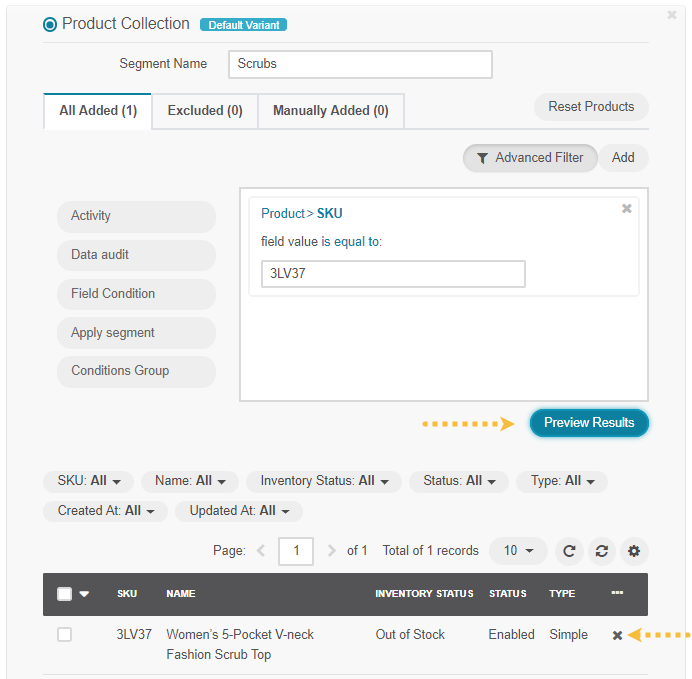
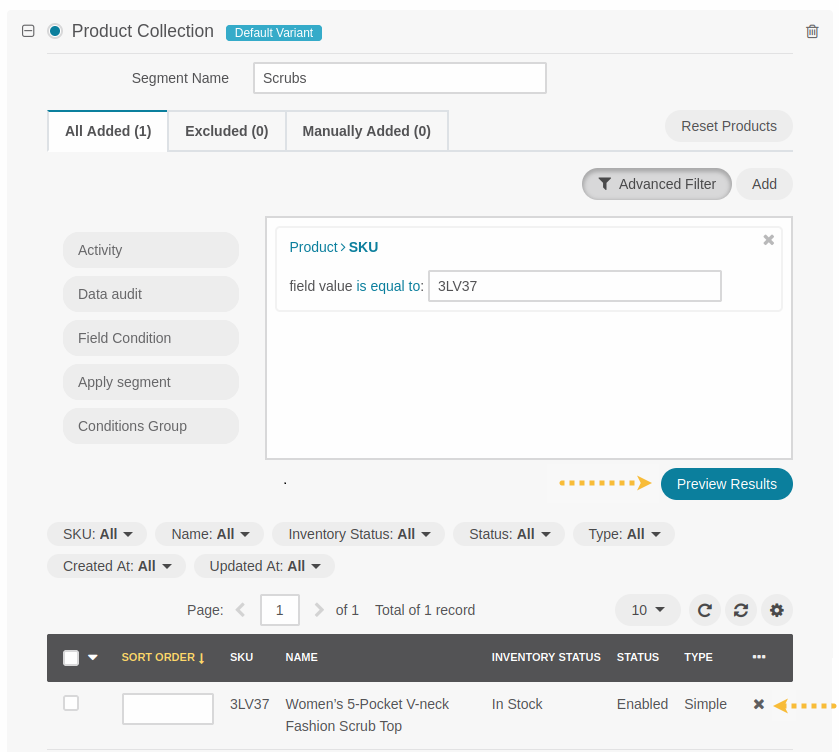
BB-21805: Documentation update

diff --git a/user/back-office/marketing/web-catalogs/edit-content-tree/content-variants.rst b/user/back-office/marketing/web-catalogs/edit-content-tree/content-variants.rst
@@ -222,11 +222,17 @@ Product Collection is a filter-based segment that helps you display a custom and
    .. image:: /user/img/marketing/web_catalogs/ResetProducts.png
       :alt: Click Reset Products next to the tabs
 
-7. This step applies only to the content nodes with more than one content variant.
+7. To define a sort order for products
+
+   Each product selected in the All Added grid can have a sort order associated, that will define the default order it will appear in the frontend store.
+
+   ..note:: 0 is the highest priority, and you can input any positive decimal number. Empty values will be sorted last.
+
+8. This step applies only to the content nodes with more than one content variant.
 
    When your collection is not selected as a default variant for the content node, you can define the condition when the product collection overrides the default content variant in the *Restrictions* section beneath the product collection preview. See :ref:`Configure Content Visibility <user-guide--marketing--web-catalog--content--visibility>` section for more information.
 
-8. Click **Save** when you have filled in the web catalog content node or keep adding the content variants.
+9. Click **Save** when you have filled in the web catalog content node or keep adding the content variants.
 
 .. _user-guide--marketing--web-catalog--default-content-variant:
 

diff --git a/user/back-office/products/master-catalog/index.rst b/user/back-office/products/master-catalog/index.rst
@@ -54,7 +54,9 @@ To create a master catalog category:
 
 5. In the **Long Description** section, provide a long default description of the category. Move from tab to tab to localize the description by setting the required fallback option. You can select whether to fall back to the default value, parent localization, or a custom value from the dropdown. When selecting the custom value, provide the localized version of the long description in the WYSIWYG field. For more details on WYSIWYG management, see the :ref:`WYSIWYG Editor <getting-started-wysiwyg-editor-field>` topic.
 
-6. In the **Products** section, select the items for the category you are creating. Use available filters to narrow your search and speed up the selection of the necessary product items.
+6. In the **Products** section, select the items for the category you are creating. Use available filters to narrow your search and speed up the selection of the necessary product items. Each product you select can have a sort order associated, that will define the default order it will appear in the frontend store (0 is the highest priority).
+
+   ..note:: for the sort order, 0 is the highest priority, and you can input any positive decimal number. Empty values will be sorted last.
 
 .. _master-catalog-inventory:
 

diff --git a/bundles/commerce/WebsiteSearchBundle/indexation.rst b/bundles/commerce/WebsiteSearchBundle/indexation.rst
@@ -353,9 +353,15 @@ Out of the box, the following indexation field groups are configured for the Pro
 
 - *main* - all values that affect the `all_text` fields  (ID, SKU, units, type, attribute, etc.) 
 
+- *category_sort_order* - product sort order in categories.
+
+- *collection_sort_order* - product sort order in collections.
+
 - *image* - product images.
 
-- *price* - product prices.
+- *inventory* - product inventory.
+
+- *pricing* - product prices.
 
 - *visibility* - product visibility.
 
